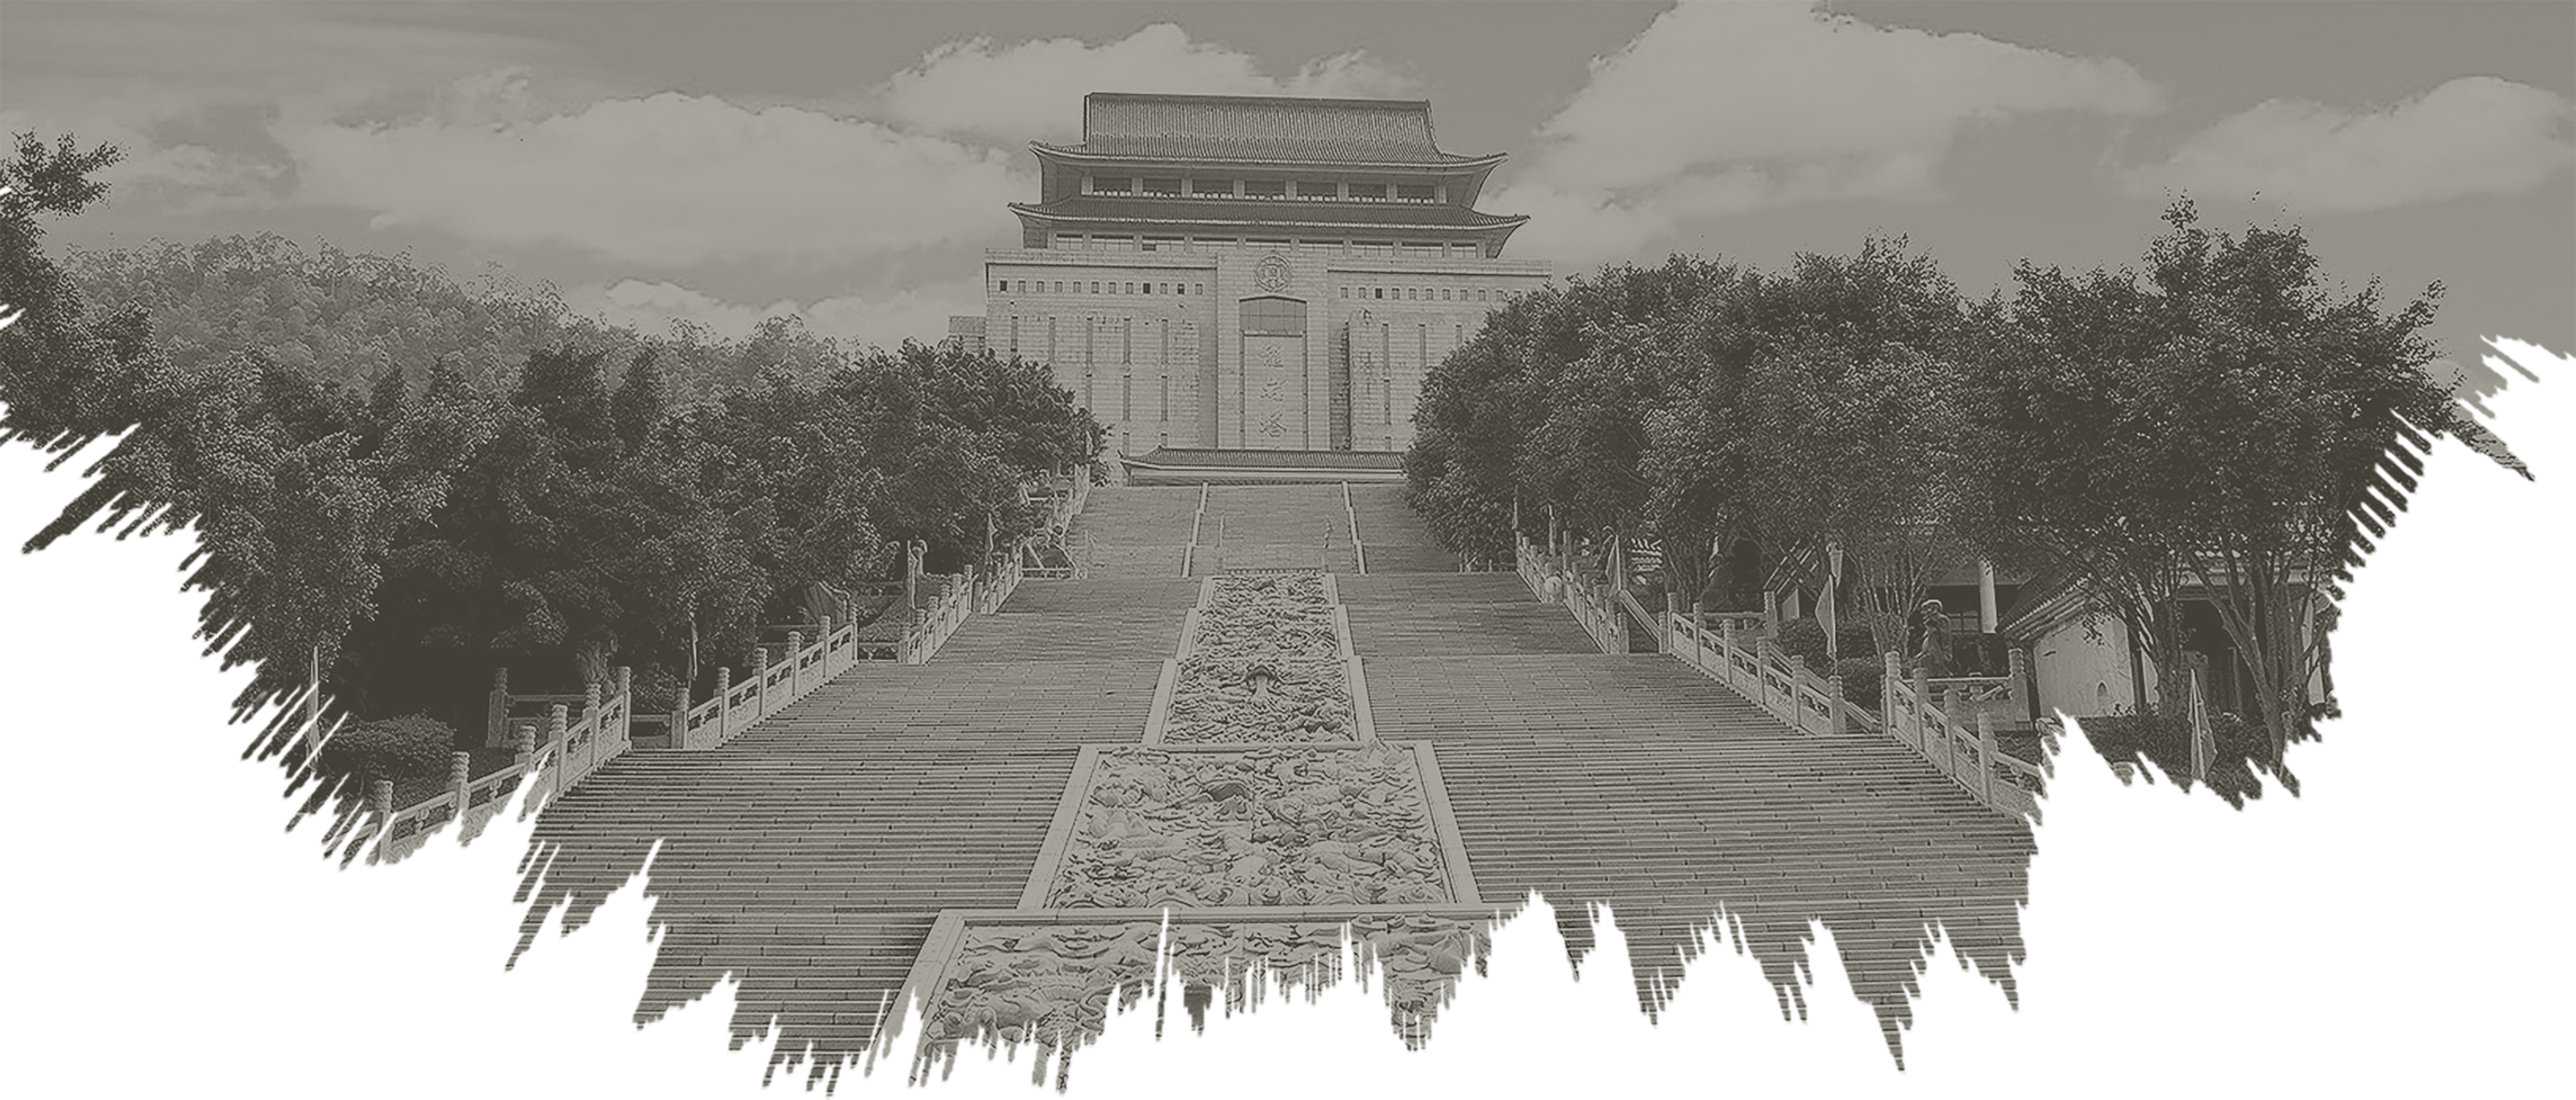
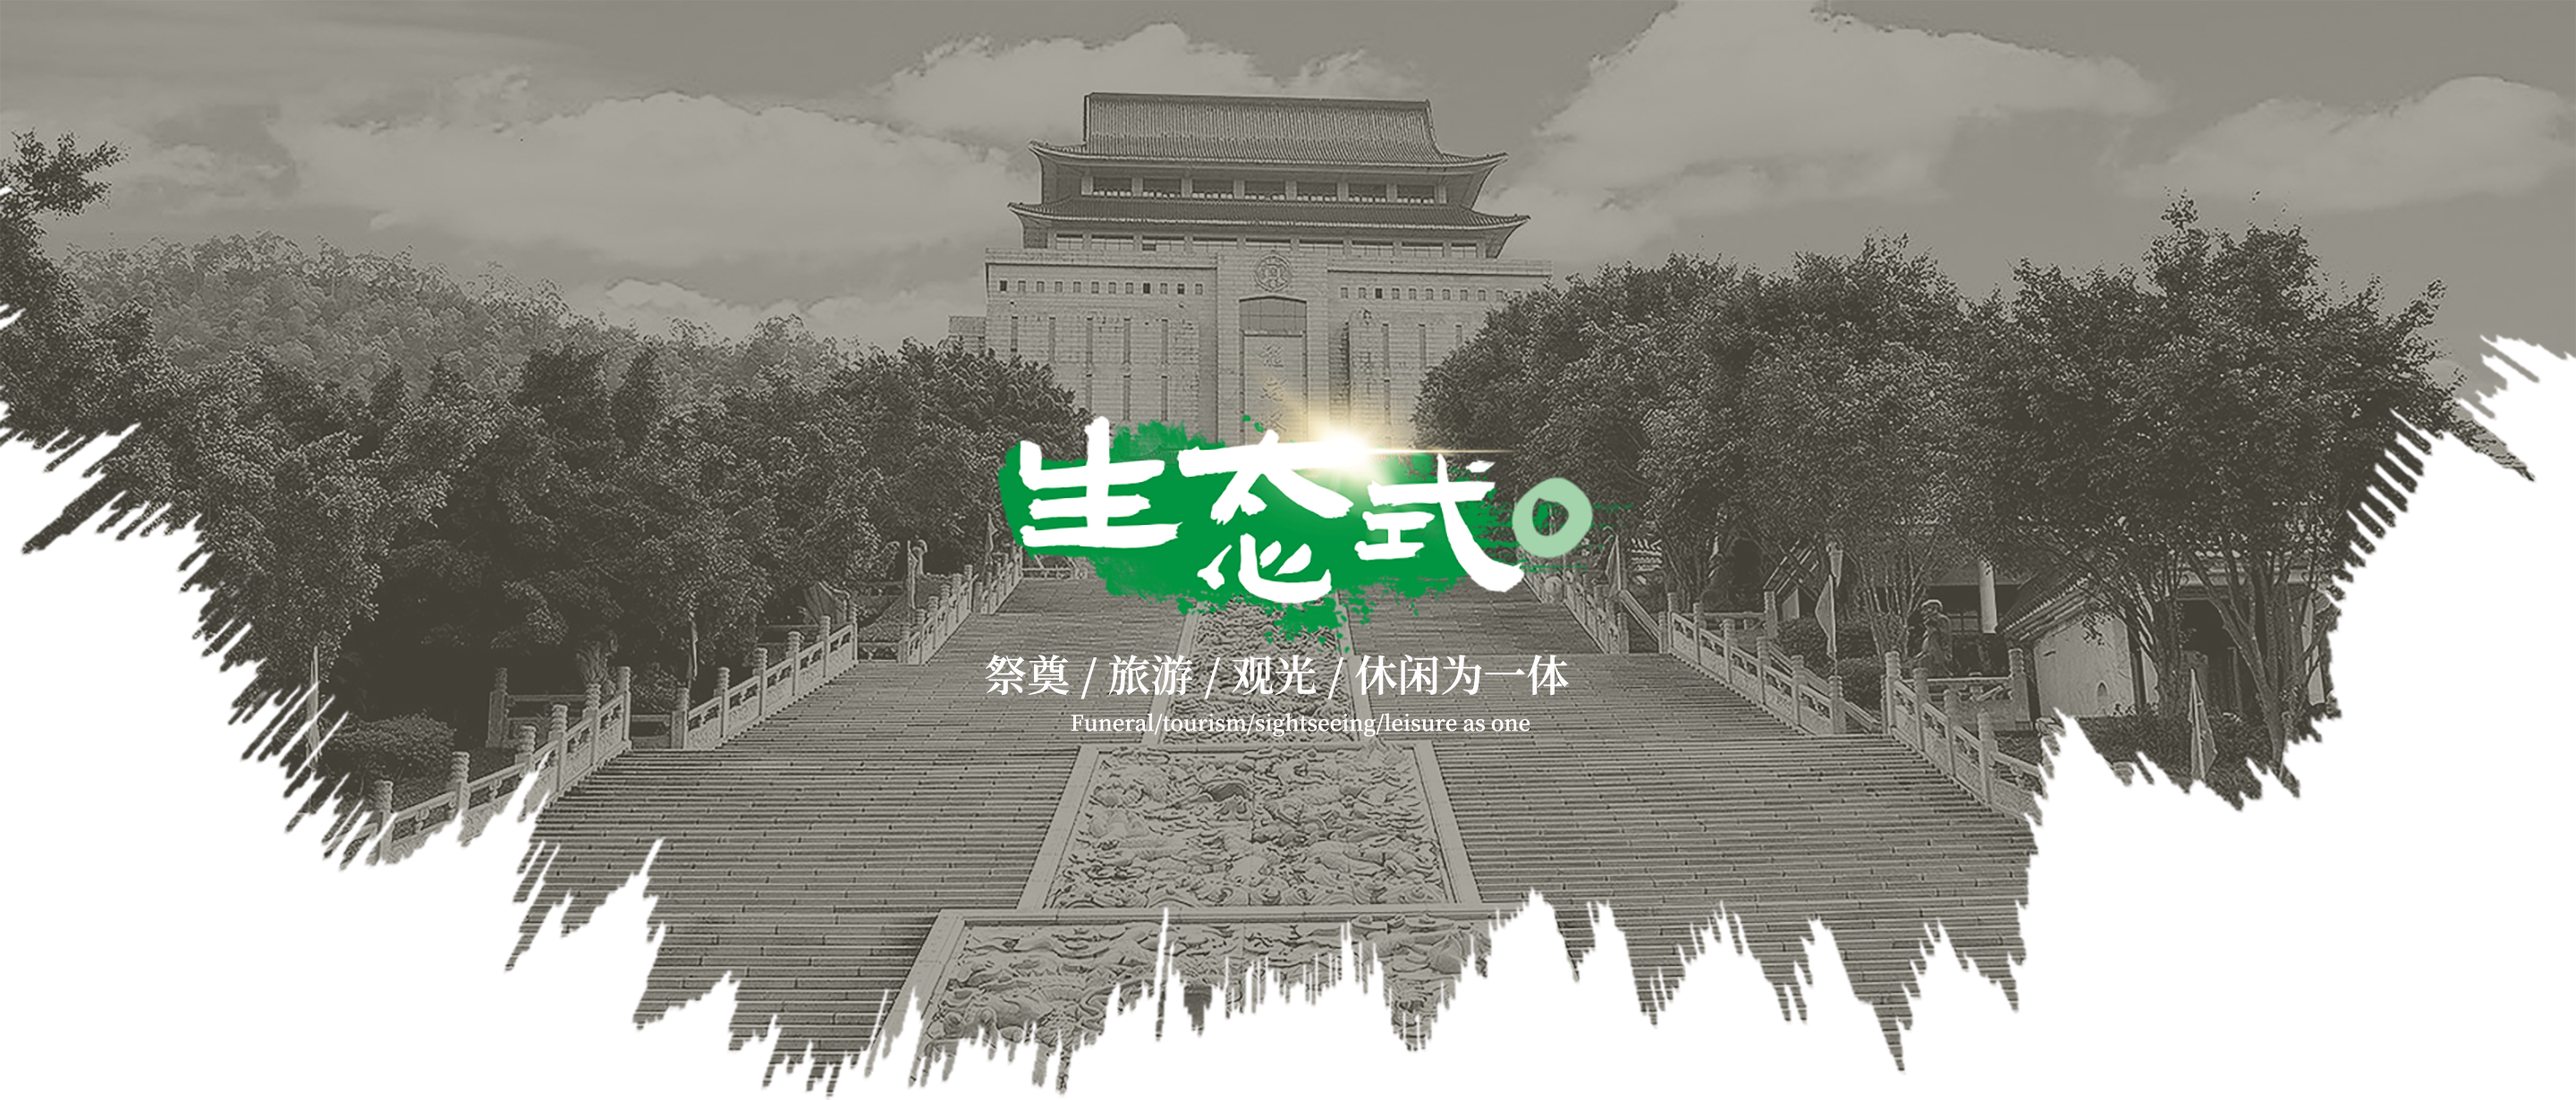
update

Changed region(s): [[0.375, 0.3398, 0.625, 0.6797]]

diff --git a/home.html b/home.html
@@ -53,26 +53,15 @@
 		<div class="banner">
 			<div class="swiper-container banner-swiper">
 				<div class="swiper-wrapper">
-					<div class="swiper-slide swiper-no-swiping" style="background-image: url(img/header-bg.png);">
-						<div class="banner-text flex-column flex-center flex-align-center">
-							<img src="img/banner.png" />
-							<div class="banner-title-cn">祭奠/旅游/观光/休闲为一体</div>
-							<div  class="banner-title-en">Funeral/tourism/sightseeing/leisure as one</div>
-						</div>
+					<div class="swiper-slide swiper-no-swiping">
+						<img src="img/header-bg.png"/>
 					</div>
-					<div class="swiper-slide swiper-no-swiping" style="background-image: url(img/header-bg.png);">
-						<div class="banner-text flex-column flex-center flex-align-center">
-							<img src="img/banner.png" />
-							<div class="banner-title-cn">祭奠/旅游/观光/休闲为一体</div>
-							<div  class="banner-title-en">Funeral/tourism/sightseeing/leisure as one</div>
-						</div>
+					<div class="swiper-slide swiper-no-swiping">
+						<img src="img/header-bg.png"/>
+
 					</div>
-					<div class="swiper-slide swiper-no-swiping" style="background-image: url(img/header-bg.png);">
-						<div class="banner-text flex-column flex-center flex-align-center">
-							<img src="img/banner.png" />
-							<div class="banner-title-cn">祭奠/旅游/观光/休闲为一体</div>
-							<div  class="banner-title-en">Funeral/tourism/sightseeing/leisure as one</div>
-						</div>
+					<div class="swiper-slide swiper-no-swiping">
+						<img src="img/header-bg.png"/>
 					</div>
 				</div>
 				<!-- 分页器 -->

diff --git a/css/home.css b/css/home.css
@@ -1,18 +1,20 @@
 body{
 	min-width: 1670px;
+	/* width: 2500px; */
 }
 
 .header{
-/* 	background-image: url(../img/header-bg.png);
-
-	/* height: 837px; */
 	position: relative;
 	z-index: 100;
+	background-image: url('../img/header-icon1.png');
+	background-position: top;
+	background-repeat: repeat-x;
+	background-size: 31px 28px;
 }
 
 .banner{
 	width: 100%;
-	height: 820px;
+	height: auto;
 	margin-top: -181px;
 }
 
@@ -20,8 +22,13 @@ body{
 	height: 100%;
 }
 
+.banner .banner-swiper img{
+	width: 100%;
+	height: auto;
+}
+
 .banner .swiper-pagination{
-	bottom: 150px !important;
+	bottom: 20% !important;
 }
 
 .banner .swiper-slide{
@@ -42,8 +49,16 @@ body{
 	background: #029541;
 }
 
+.banner .banner-text-wrap{
+	position: absolute;
+	width: 100%;
+	height: 100%;
+	top: 0;
+	left: 0;
+}
+
 .banner .banner-text{
- height: 100%;
+ /* height: 100%; */
 }
 .banner .banner-title-cn{
 	font-size: 32px;

diff --git a/css/common.css b/css/common.css
@@ -166,9 +166,10 @@ body {
 
 
 .header-icon {
-	width: 100%;
+	width: 400px;
 	height: 89px;
-	background-image: url(../img/header-icon.png);
+	margin: 0 auto;
+	background-image: url(../img/header-icon2.png);
 	background-repeat: no-repeat;
 	background-position: top center;
 	background-size: cover;
